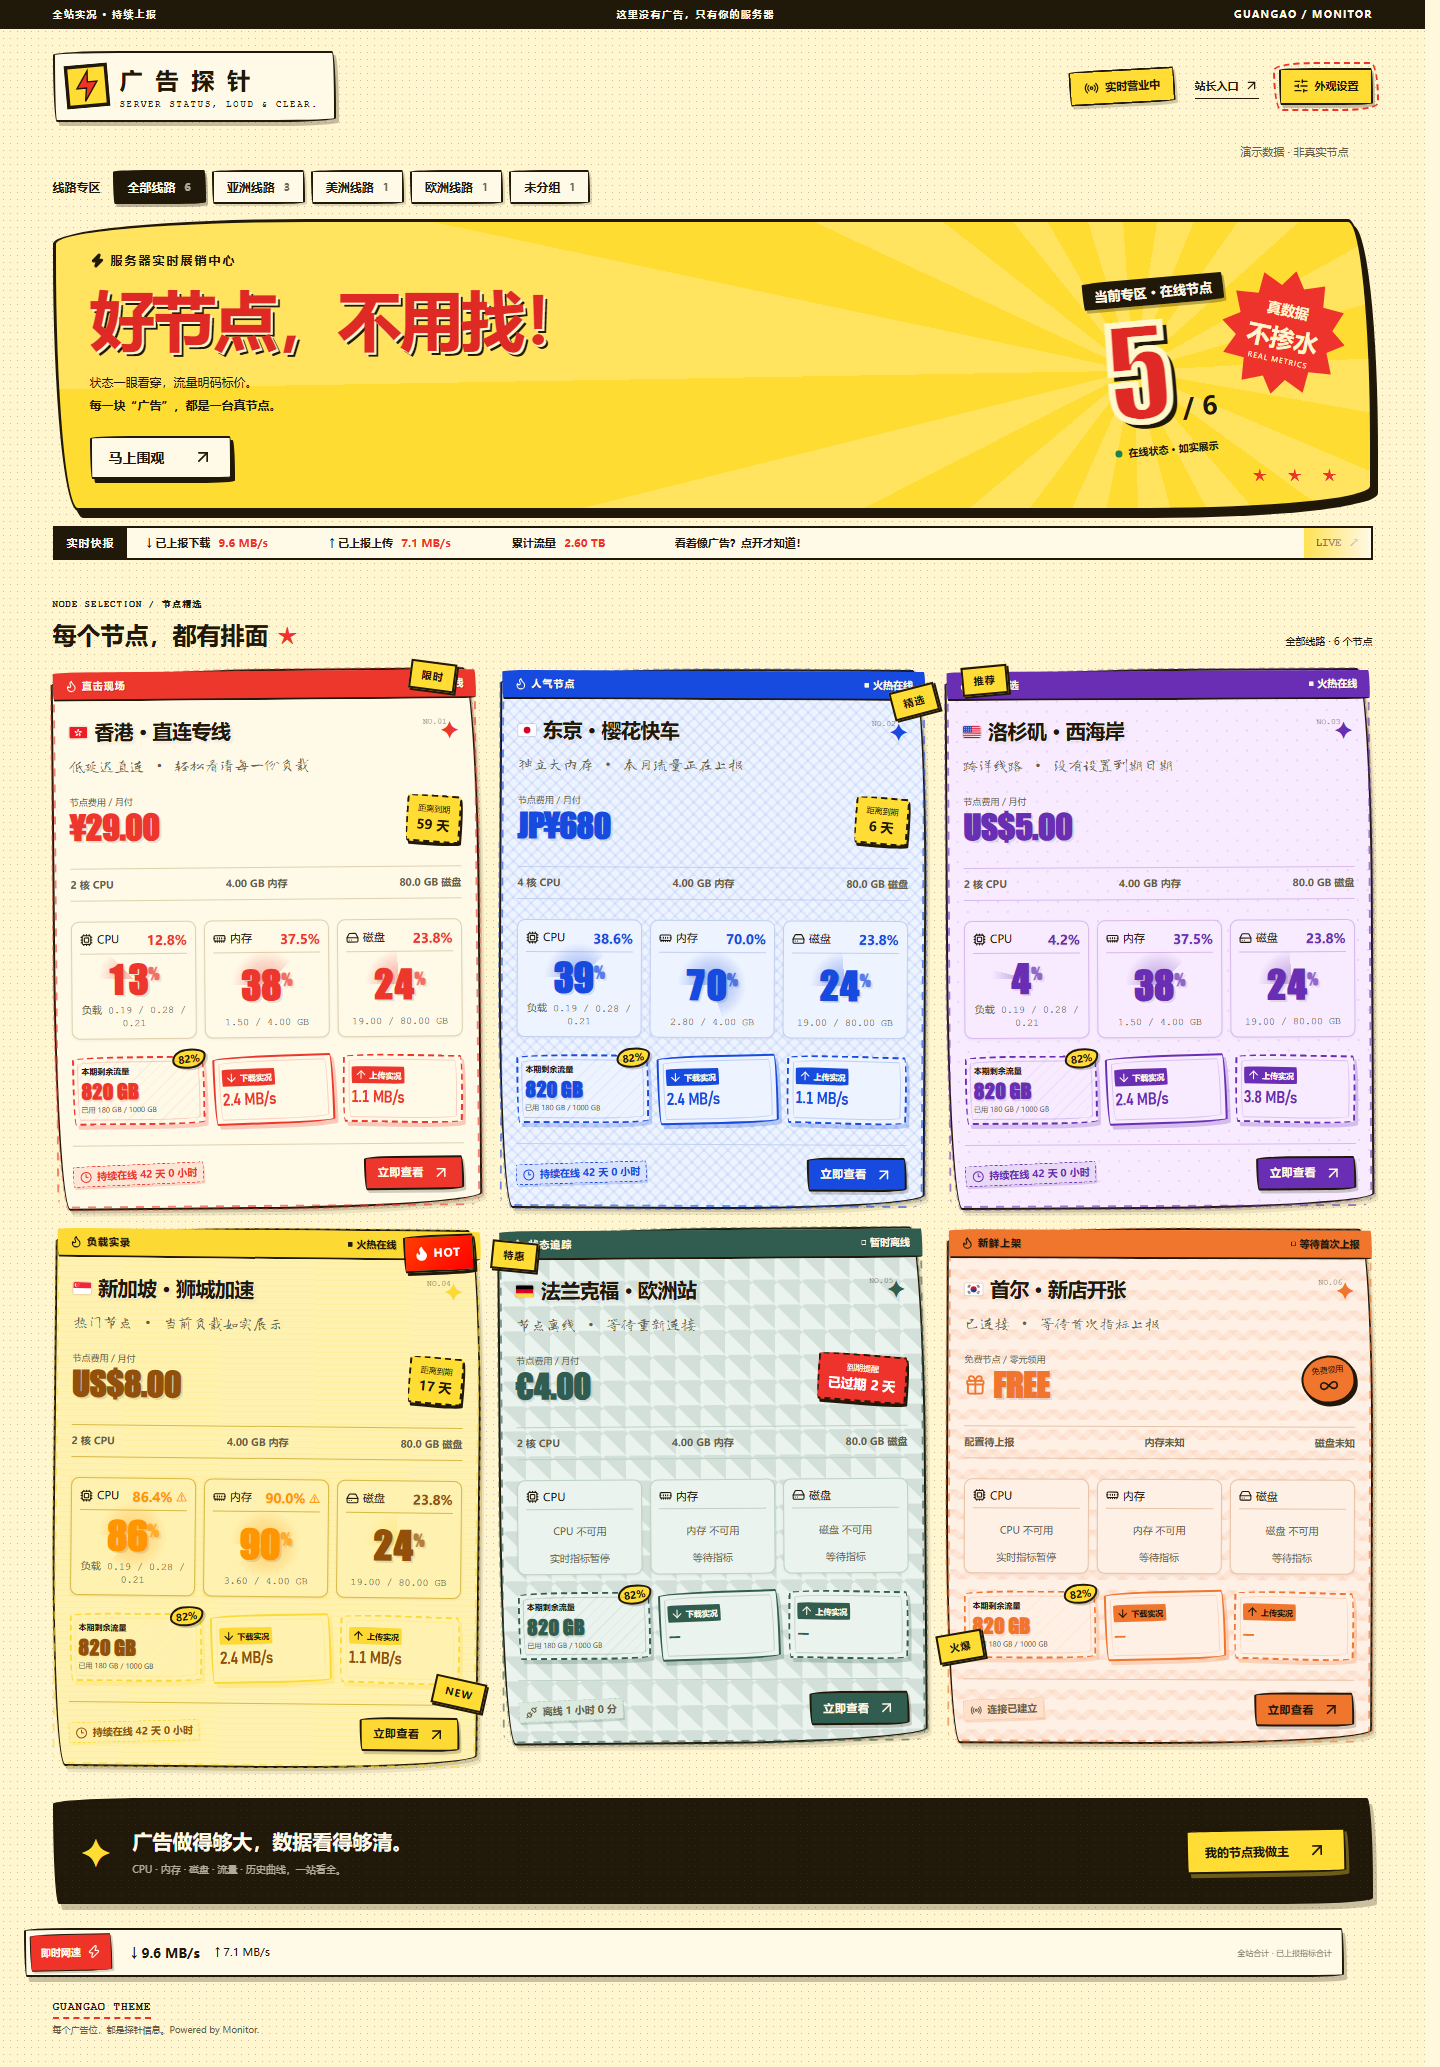
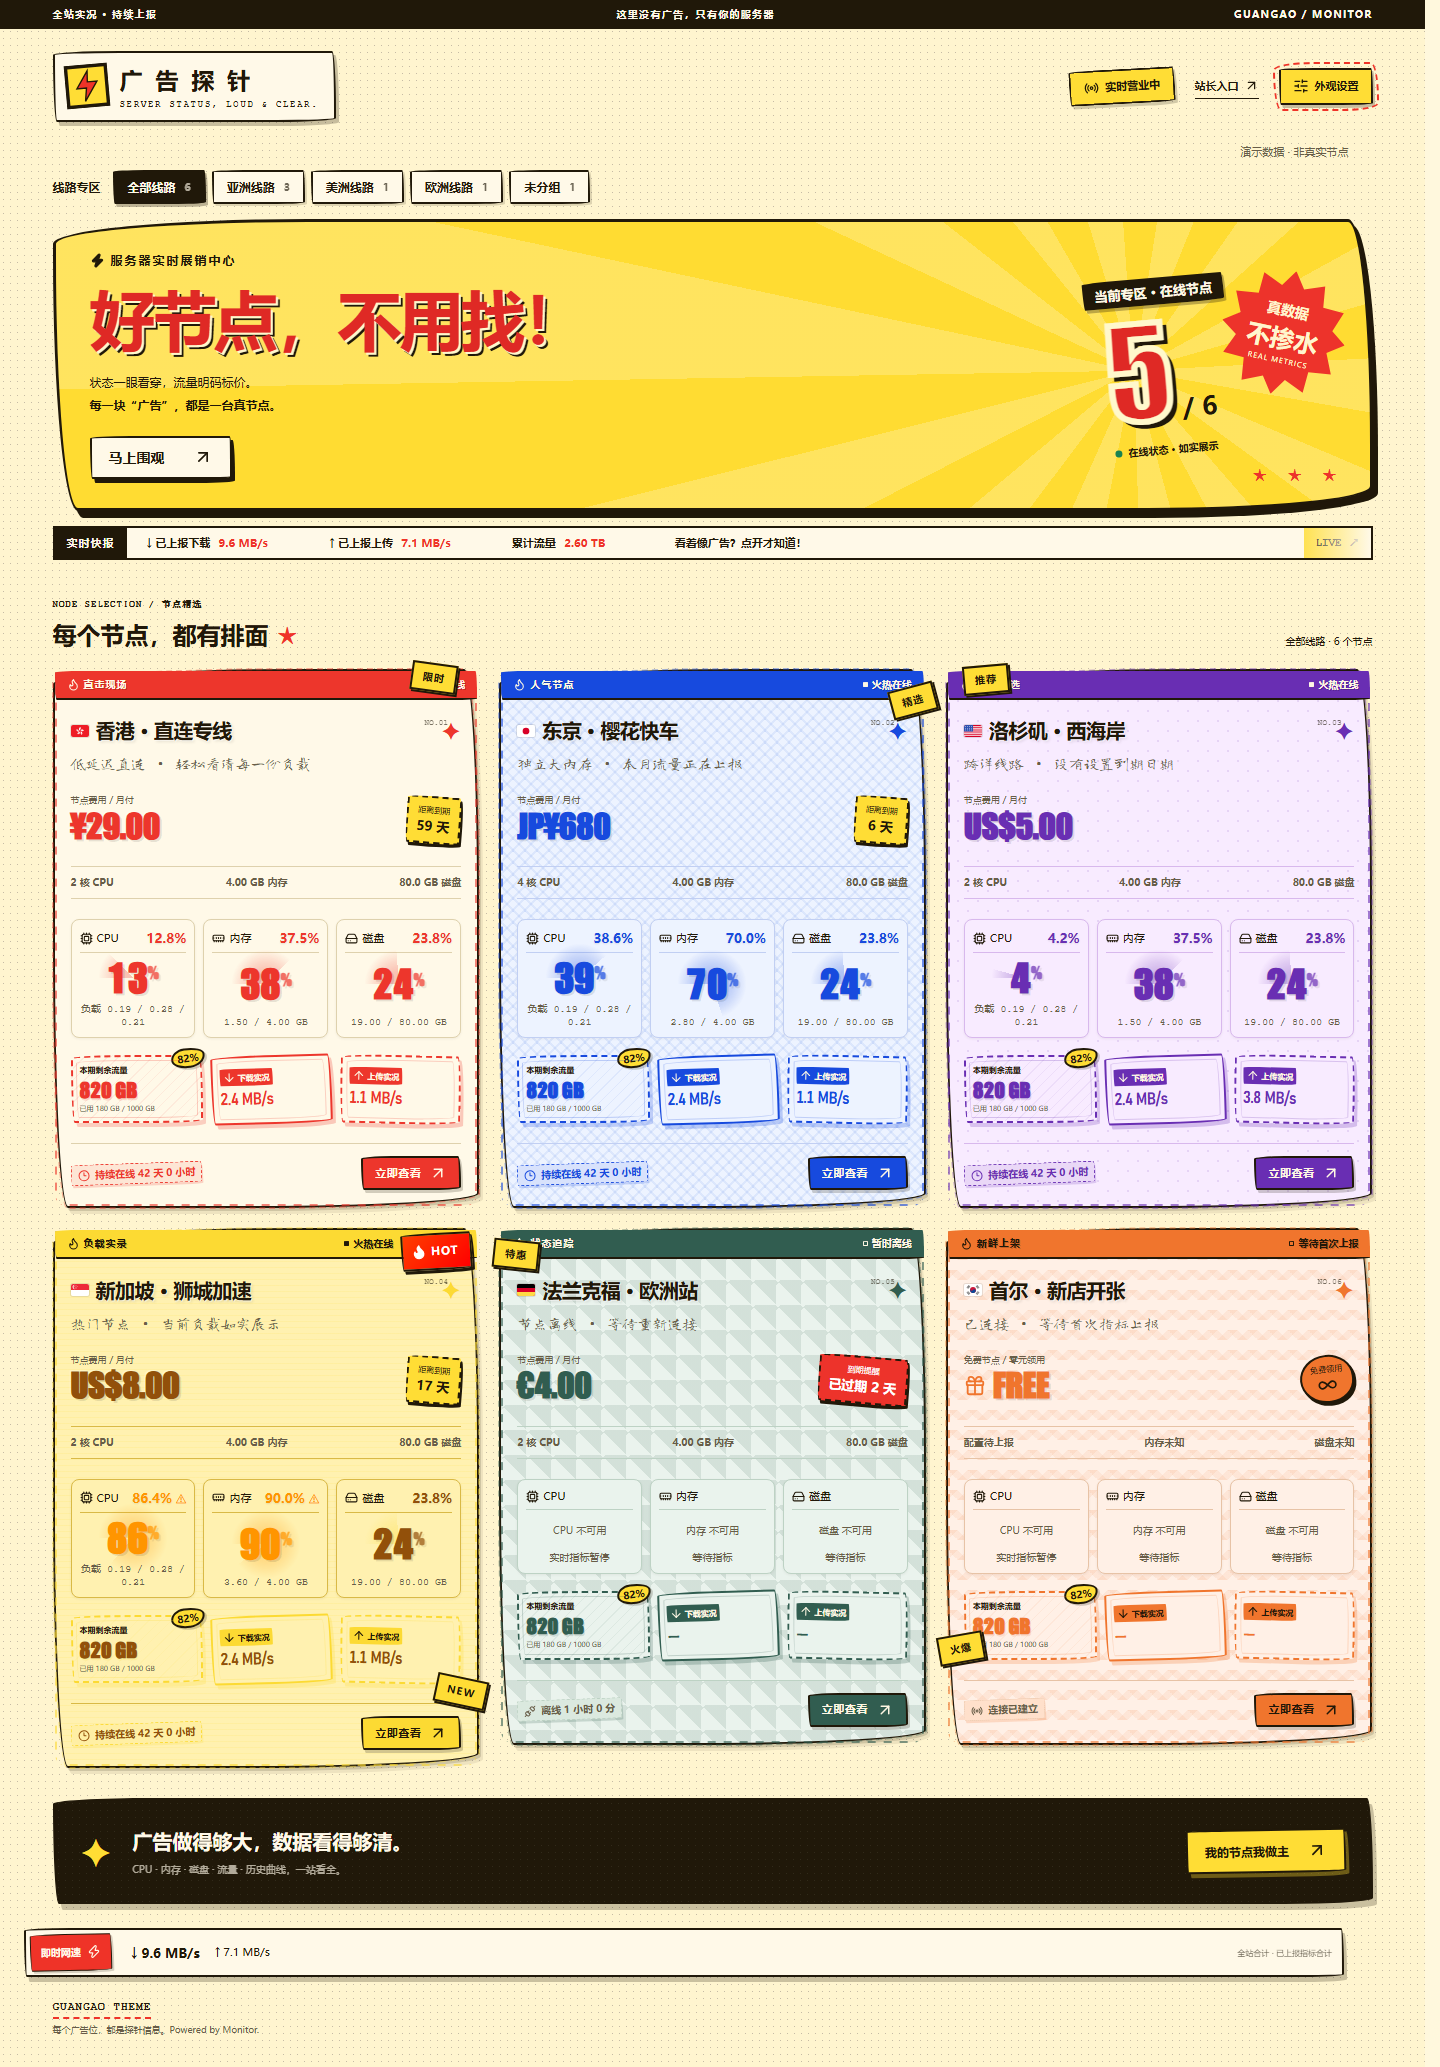
fix: keep card text upright to avoid rotated text blur

diff --git a/src/monitor-wall.css b/src/monitor-wall.css
@@ -615,25 +615,7 @@ select:focus-visible {
   gap: 20px;
   align-items: start;
 }
-/* 纸质风格：微小倾斜，像纸片堆叠 */
-.node-grid .node-card:nth-child(6n + 1) {
-  transform: rotate(-0.5deg);
-}
-.node-grid .node-card:nth-child(6n + 2) {
-  transform: rotate(0.3deg);
-}
-.node-grid .node-card:nth-child(6n + 3) {
-  transform: rotate(-0.3deg);
-}
-.node-grid .node-card:nth-child(6n + 4) {
-  transform: rotate(0.6deg);
-}
-.node-grid .node-card:nth-child(6n + 5) {
-  transform: rotate(-0.4deg);
-}
-.node-grid .node-card:nth-child(6n + 6) {
-  transform: rotate(0.2deg);
-}
+/* Keep the text upright; irregular paper edges and tilted stickers carry the handmade style. */
 .node-card {
   --tone: #ed362c;
   --tone-ink: #fff8e4;
@@ -661,7 +643,7 @@ select:focus-visible {
 }
 @media (hover: hover) and (pointer: fine) {
 .node-card:hover {
-  transform: translateY(-3px) rotate(0deg) !important;
+  transform: translateY(-3px);
   box-shadow:
     3px 4px 0 rgba(32, 24, 9, 0.2),
     6px 8px 0 rgba(32, 24, 9, 0.1);

diff --git a/tests/card-clarity.spec.ts b/tests/card-clarity.spec.ts
@@ -1,0 +1,15 @@
+import { test, expect } from '@playwright/test';
+
+for (const variant of ['promo', 'neon', 'retro']) test(`${variant} card text stays upright before and after hover`, async ({ page }) => {
+  await page.route('**/api/themes/monitor-theme-guangao/config', route => route.fulfill({ json: { variant } }));
+  await page.goto('/');
+  const cards = page.locator('.node-card');
+  await expect(cards).toHaveCount(6);
+  for (const card of await cards.all()) await expect(card).toHaveCSS('transform', 'none');
+  const card = cards.first();
+  await card.hover();
+  await expect(card).toHaveCSS('transform', 'matrix(1, 0, 0, 1, 0, -3)');
+  await page.mouse.move(0, 0);
+  await expect(card).toHaveCSS('transform', 'none');
+  await expect(card.locator('.title-spark')).toBeVisible();
+});
